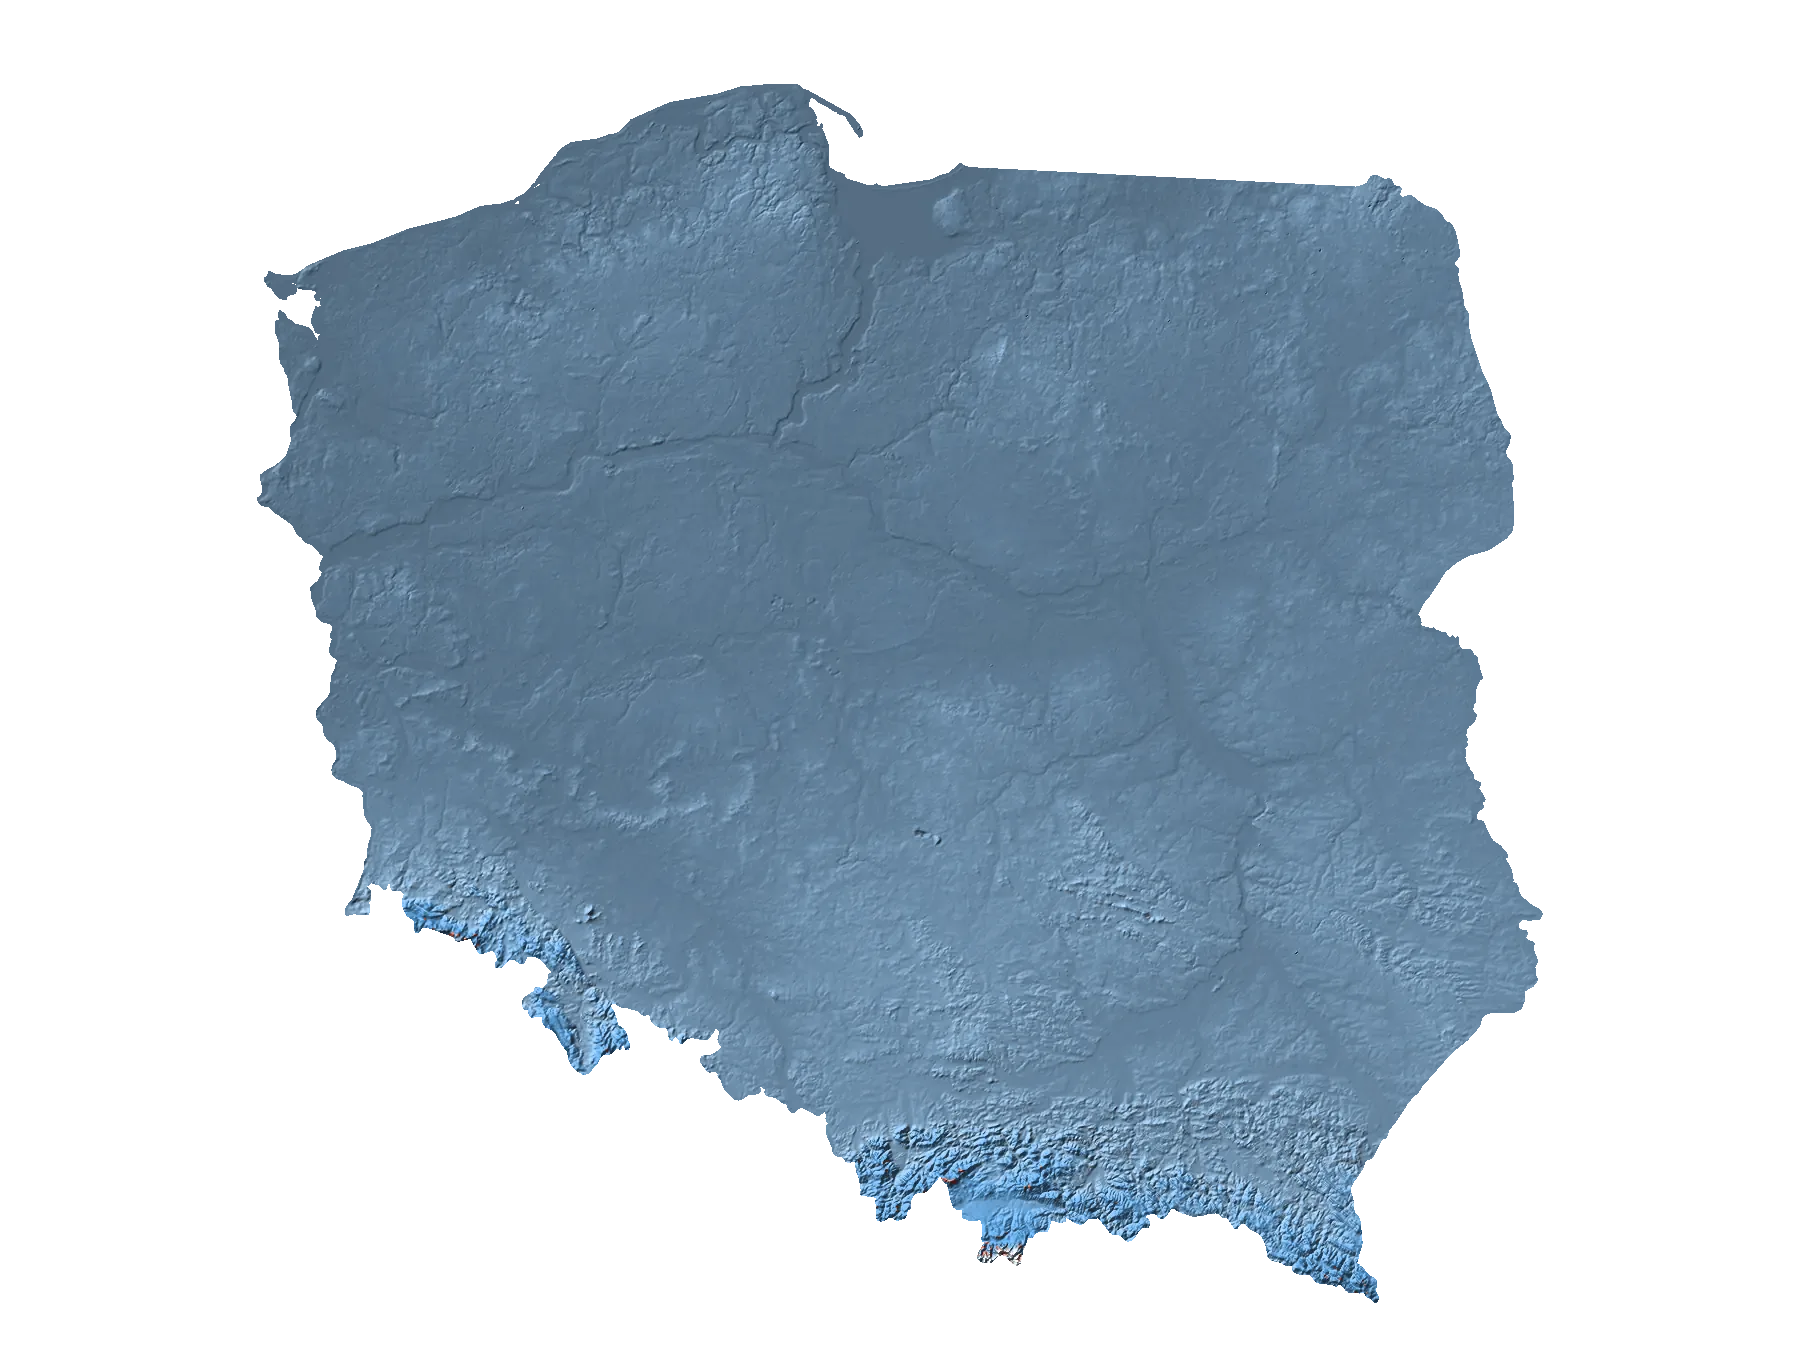
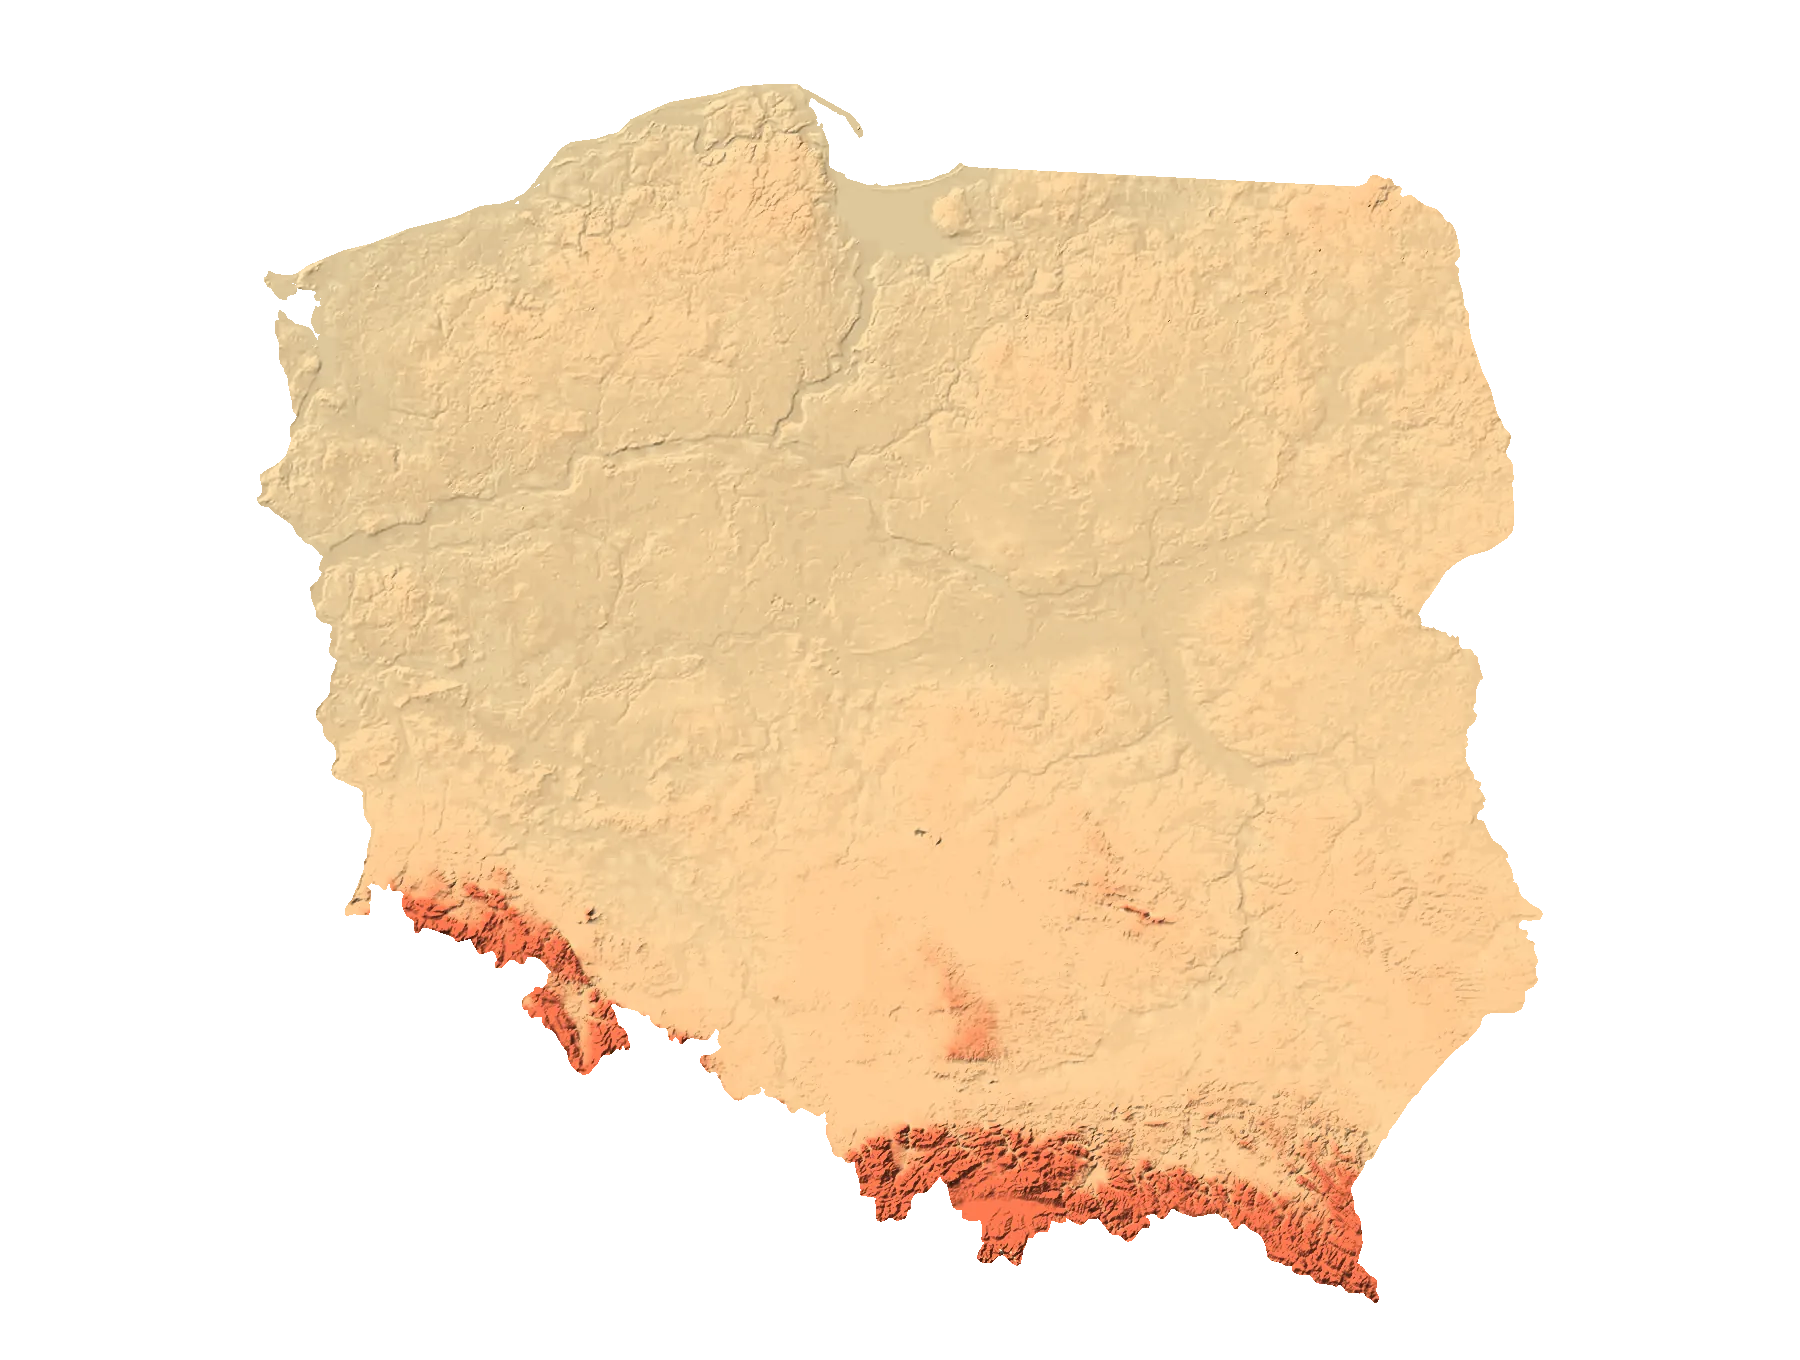
8.10.0: mapa „Pergamin” — ciepła kolorystyka stylu Atlas
Kremowy ląd, turkusowe morze, terakotowe góry (przekolorowany relief),
zielone lasy, pomarańczowe pinezki; tylko styl Atlas. Cache
i-was-here-v8-10-0-20261113, dokumentacja zaktualizowana.

Claude-Session: https://claude.ai/code/session_01XxfU28Mk8B4bFR63vaWz8v

diff --git a/service-worker.js b/service-worker.js
@@ -1,5 +1,5 @@
 /* I Was Here — PWA cache. Network-first; offline: cached copy (HTML without query string). */
-const KEY='i-was-here-v8-9-1-20261113';
+const KEY='i-was-here-v8-10-0-20261113';
 const CORE=['./data/wroclaw-krasnale.json','./','./index.html','./atlas.html','./icon.svg','./icon-180.png','./icon-512.png','./manifest.webmanifest','./assets/atlas.css','./assets/theme-marbles.css','./assets/atlas.js','./assets/atlas-light-v5.css','./assets/atlas-illustrated.js','./assets/poland-geography.js','./assets/brand-mark.svg','./assets/brand-pin-landscape.svg','./assets/app-nav.js','./assets/app-nav.css','./assets/brand-v5.js','./assets/brand-v5.css','./assets/nav4.css','./assets/i18n4.js','./assets/poland-mark.svg','./data/atrakcje.js','./data/atrakcje.json','./data/restauracje.js','./data/restauracje.json','./assets/upgrade3.css','./assets/features3.js','./assets/trips-ics.js','./region.html','./assets/region.js','./assets/region.css','./data/regiony-lite.js','./assets/region-loader.js','./data/regiony/dolnoslaskie.json','./data/regiony/kujawsko-pomorskie.json','./data/regiony/lodzkie.json','./data/regiony/lubelskie.json','./data/regiony/lubuskie.json','./data/regiony/malopolskie.json','./data/regiony/mazowieckie.json','./data/regiony/opolskie.json','./data/regiony/podkarpackie.json','./data/regiony/podlaskie.json','./data/regiony/pomorskie.json','./data/regiony/slaskie.json','./data/regiony/swietokrzyskie.json','./data/regiony/warminsko-mazurskie.json','./data/regiony/wielkopolskie.json','./data/regiony/zachodniopomorskie.json','./assets/vendor/leaflet/leaflet.js','./assets/vendor/leaflet/leaflet.css','./assets/vendor/leaflet/images/layers.png','./assets/vendor/leaflet/images/layers-2x.png','./assets/vendor/leaflet/images/marker-icon.png','./assets/vendor/leaflet/images/marker-icon-2x.png','./assets/vendor/leaflet/images/marker-shadow.png','./assets/atlas-premium.css','./assets/atlas-plans.js','./assets/poland-relief.webp','./assets/place-extras.js','./assets/user-data.js','./assets/place-extras.css','./assets/explore-themes.js','./assets/explore-themes.css','./data/szlaki.json','./data/index/places.json','./data/warszawa-historia/index.json','./data/warszawa-historia/mokotow-ochota.json','./data/warszawa-historia/praga.json','./data/warszawa-historia/prawy-brzeg-poludnie-zachod.json','./data/warszawa-historia/srodmiescie.json','./data/warszawa-historia/wilanow.json','./data/warszawa-historia/wola.json','./data/warszawa-historia/zoliborz-bielany-bemowo.json','./data/historia/dolnoslaskie.json','./data/historia/kujawsko-pomorskie.json','./data/historia/lodzkie.json','./data/historia/lubelskie.json','./data/historia/lubuskie.json','./data/historia/malopolskie.json','./data/historia/mazowieckie.json','./data/historia/opolskie.json','./data/historia/podkarpackie.json','./data/historia/podlaskie.json','./data/historia/pomorskie.json','./data/historia/slaskie.json','./data/historia/swietokrzyskie.json','./data/historia/warminsko-mazurskie.json','./data/historia/wielkopolskie.json','./data/historia/zachodniopomorskie.json'];
 self.addEventListener('install',e=>{e.waitUntil(caches.open(KEY).then(c=>c.addAll(CORE)));self.skipWaiting()});
 self.addEventListener('activate',e=>{e.waitUntil(caches.keys().then(keys=>Promise.all(keys.filter(x=>x!==KEY).map(x=>caches.delete(x)))));self.clients.claim()});

diff --git a/assets/theme-marbles.css b/assets/theme-marbles.css
@@ -29,3 +29,31 @@
 @media(prefers-reduced-motion:no-preference){
   .tabbar button.active,.app-nav:not(.tabbar) button.active{transition:box-shadow .2s ease}
 }
+
+/* ===== 8.10.0 — mapa „Pergamin”: ciepła, przyjazna kolorystyka stylu Atlas =====
+   Dotyczy tylko stylu domyślnego (Atlas); Jasny, Noc i Teren zachowują własne kolory.
+   Kremowy ląd, turkusowe morze, terakotowe góry (relief w assets/poland-relief.webp), pomarańczowe pinezki. */
+body:not([data-style=light]):not([data-style=night]):not([data-style=terrain]){
+  --olive:#fdefc3;--water:#4aa0b5;
+  --pin:#e5541b;--pin-edge:#fff4e0;--pin-dot:#fff4e0;
+}
+body:not([data-style=light]):not([data-style=night]):not([data-style=terrain]) #atlasApp{background:radial-gradient(ellipse at 52% 18%,#6dbac4 0%,#5eaeb9 55%,#4f9fb0 100%)}
+body:not([data-style=light]):not([data-style=night]):not([data-style=terrain]) .neighbour{fill:#f6ead0;stroke:#e0cc9f}
+body:not([data-style=light]):not([data-style=night]):not([data-style=terrain]) .relief{opacity:.95}
+body:not([data-style=light]):not([data-style=night]):not([data-style=terrain]) .country-shadow{opacity:.18}
+body:not([data-style=light]):not([data-style=night]):not([data-style=terrain]) .country-border{stroke:#e5571c;opacity:1;stroke-width:1.6px;filter:none}
+body:not([data-style=light]):not([data-style=night]):not([data-style=terrain]) .prov-line{stroke:#b4803f;opacity:.75}
+body:not([data-style=light]):not([data-style=night]):not([data-style=terrain]) .prov-halo{stroke:#ffffff;opacity:.35}
+body:not([data-style=light]):not([data-style=night]):not([data-style=terrain]) .atlas-geo-river{stroke:#4aa0b5}
+body:not([data-style=light]):not([data-style=night]):not([data-style=terrain]) .atlas-geo-lake{fill:#4aa0b5;stroke:#4aa0b5}
+/* napisy skali, kompas i źródło na jasnym lądzie: granat */
+body:not([data-style=light]):not([data-style=night]):not([data-style=terrain]) .compass,
+body:not([data-style=light]):not([data-style=night]):not([data-style=terrain]) .scale-text,
+body:not([data-style=light]):not([data-style=night]):not([data-style=terrain]) .attribution{color:#12306a;fill:#12306a;text-shadow:none}
+body:not([data-style=light]):not([data-style=night]):not([data-style=terrain]) .scale{color:#12306a;border-color:#12306a}
+/* lasy: zieleń zamiast niebiesko-szarego */
+body:not([data-style=light]):not([data-style=night]):not([data-style=terrain]) .atlas-forest [fill="#45536a"]{fill:#5b4630}
+body:not([data-style=light]):not([data-style=night]):not([data-style=terrain]) .atlas-forest [fill="#365d80"]{fill:#3f6b3a}
+body:not([data-style=light]):not([data-style=night]):not([data-style=terrain]) .atlas-forest [fill="#53738f"]{fill:#55823f}
+body:not([data-style=light]):not([data-style=night]):not([data-style=terrain]) .atlas-forest [fill="#6786a2"]{fill:#6f9a4d}
+body:not([data-style=light]):not([data-style=night]):not([data-style=terrain]) .atlas-forest [stroke="#a0b9cf"]{stroke:#b6d08c}

diff --git a/assets/atlas-premium.css b/assets/atlas-premium.css
@@ -64,8 +64,8 @@ body:not([data-style=light]) .region-outline{stroke:var(--amber-2);fill:rgba(255
 
 /* ---------- pinezki miast: stały rozmiar na ekranie, status odwiedzin */
 .city-dot{cursor:pointer;outline:none}
-.city-dot .pin{fill:var(--amber);stroke:var(--cream);stroke-width:1.6;filter:drop-shadow(0 3px 3px rgba(0,0,0,.35))}
-.city-dot .pin-dot{fill:var(--cream)}
+.city-dot .pin{fill:var(--pin,var(--amber));stroke:var(--pin-edge,var(--cream));stroke-width:1.6;filter:drop-shadow(0 3px 3px rgba(0,0,0,.35))}
+.city-dot .pin-dot{fill:var(--pin-dot,var(--cream))}
 .city-dot .pin-shadow{fill:rgba(0,0,0,.35)}
 .city-dot .pin-mark{font:900 8px/1 system-ui,-apple-system,sans-serif;fill:#17253b;pointer-events:none}
 .city-dot.st-visited .pin{fill:#3fa396}

diff --git a/assets/user-data.js b/assets/user-data.js
@@ -8,7 +8,7 @@
  * Bez zewnętrznych bibliotek: własny zapis/odczyt ZIP (deflate przez DecompressionStream) i XML arkusza. */
 (function(){
 'use strict';
-const FORMAT='iwh-backup',FORMAT_VERSION=1,APP_VERSION='8.9.1';
+const FORMAT='iwh-backup',FORMAT_VERSION=1,APP_VERSION='8.10.0';
 const read=(k,f)=>{try{const v=JSON.parse(localStorage.getItem(k)||'null');return v==null?f:v}catch(e){return f}};
 const write=(k,v)=>{try{localStorage.setItem(k,JSON.stringify(v));return true}catch(e){return false}};
 const esc=s=>String(s??'').replace(/[&<>"']/g,c=>({'&':'&amp;','<':'&lt;','>':'&gt;','"':'&quot;',"'":'&#39;'}[c]));

diff --git a/CLAUDE.md b/CLAUDE.md
@@ -1,6 +1,6 @@
 # CLAUDE.md — I Was Here / Places & Memories
 
-Aktualizacja 2026-11-13: wersja 8.9.1 — motyw „kulki na torze” (niebieski, błękitny akcent `#28A6F4`, żółty) na wszystkich ekranach, cache `i-was-here-v8-9-1-20261113`; paleta poniżej w sekcji *Binding UI decisions* jest już nowa.
+Aktualizacja 2026-11-13: wersja 8.10.0 — motyw „kulki na torze” (niebieski, błękitny akcent `#28A6F4`, żółty) z ciepłą mapą „Pergamin” w stylu Atlas, cache `i-was-here-v8-10-0-20261113`; paleta poniżej w sekcji *Binding UI decisions* jest już nowa.
 
 Aktualizacja gałęzi 2026-11-09: 8.8.0, kolekcja 769 krasnali OSM (`data/wroclaw-krasnale.json`, importer `tools/import_wroclaw_dwarfs.py`), 982 punkty regionalne łącznie; historie ≥10 zdań nadal dotyczą 213 atrakcji redakcyjnych. Nowy test: `CHROMIUM_PATH=/usr/bin/chromium node tools/test_dwarfs.js` (zmienna opcjonalna). Cache `i-was-here-v8-8-0-20261109`. Poniższy opis 8.7 to punkt wyjścia; bieżący zakres w PROJECT_STATUS.md.
 
@@ -61,6 +61,7 @@ IndexedDB: `iwh_journal` (keys `reg:<placeId>`, `waw:<attractionId>`, `atlas:<it
 - **Logo:** landscape pin **left of** the wordmark „PLACES & MEMORIES / I WAS HERE”, top-left; the logo is not a link.
 - **Poland map button:** the green tile **in the same row as the logo**, the middle item of the header between the logo and the buttons (`#atlasFloat.poland-fab`, 48 px; 44 px in the Atlas). The header is always visible, so the button is too. It always leads to the whole map of Poland; in the Atlas it calls `home()` without a reload. On screens ≤370 px the wordmark hides and only the pin stays. No white halo.
 - **Palette (8.9.0, „marbles on a track” theme):** navy `#0C2C59`, light-blue accent `#28A6F4` (dark text `#061938` on it), yellow `#FFD84A`, blue land, pale-blue backgrounds `#E2ECF8`, teal `#3FA396` for success; `assets/theme-marbles.css` loads last. Serif italic brand wordmark. (Older 7.0 palette navy/amber/olive/cream is in `DECYZJE_PROJEKTOWE.md`.)
+- **Atlas map (8.10.0, style Atlas only):** „Pergamin” — cream land, turquoise sea `#5EAEB9`, terracotta mountains (recoloured `poland-relief.webp`), green forests, orange pins `#E5541B`; styles Light/Night/Terrain keep their own colours.
 - **City motifs:** postage stamps (owner's choice, style 5), with a „✓” postmark when the city is visited.
 - **One bottom menu**, identical everywhere. **No duplicate controls on one screen:** the language switch lives in the header, the map style in the Layers panel, and there is no corner „Polska” button.
 - **Pieczątki / Stamps:** the former „Paszport”. Clickable counters, „Byłem tu” toggles that can be undone, journal with up to 5 photos. In attraction details the main action is **„✣ Zdobądź pieczątkę”**; „📝 Notatki i zdjęcia” appears only after the stamp is collected (also as 📝 next to collected stamps).

diff --git a/PROJECT_STATUS.md b/PROJECT_STATUS.md
@@ -1,5 +1,10 @@
 # PROJECT_STATUS — I Was Here / Places & Memories
 
+## 8.10.0 — Mapa „Pergamin” (2026-11-13, PR czeka na „Scal”)
+- Styl Atlas ma ciepłą mapę (krem, turkus, terakota, zielone lasy, pomarańczowe pinezki); szczegóły w CHANGELOG.md, decyzja w DECYZJE_PROJEKTOWE.md §3. Relief `poland-relief.webp` przekolorowany (przy ponownym generowaniu `build_geography.py` trzeba go przekolorować tak samo: niziny hue 43° s .26 v .99, góry hue 14° s .68 v .88).
+- Znany stary błąd: styl Noc ma nieczytelne napisy miast i ciemne „I WAS HERE” (poprawka czeka na decyzję właściciela).
+- Do sprawdzenia przez właściciela: wygląd na prawdziwym iPhonie; styl Noc/Teren z jasnym reliefem.
+
 ## 8.9.1 — Główny akcent błękitny (2026-11-13)
 - Różowy akcent z 8.9.0 zastąpiony błękitnym `#28A6F4` w całej aplikacji (CHANGELOG.md, DECYZJE_PROJEKTOWE.md §3). Ciemny tekst na błękitnych przyciskach dla kontrastu.
 - Do sprawdzenia przez właściciela: wygląd na prawdziwym iPhonie; ciemny/leśny motyw Warszawy; PNG ikon (przerenderuje `sync-icons.yml`).
@@ -27,8 +32,8 @@
 - Testy: synchronizacja bazy, test_bundle.py, test_atlas.py, kontrola składni i pełny test_browser.js przeszły w Chromium (emulacja iPhone 13). Sprawdzono kliknięcie logo z zakładki Pieczątek oraz mapkę po lewej w Warszawie.
 - Cache: `i-was-here-v8-7-1-20261109`. Poprawka oparta na main 8.7.0; niezależna od oczekującego PR #23 z krasnalami. Nie testowano na fizycznym iPhonie.
 
-**Stan na:** 2026-11-13 · **Wersja:** 8.9.1 (motyw „kulki na torze”, błękitny akcent)
-**Cache PWA:** `i-was-here-v8-9-1-20261113` · **Publikacja:** https://auriol-kno.github.io/Zwiedzanie-trip/atlas.html (wdrożenia #17–#22 sprawdzane w GitHub Actions)
+**Stan na:** 2026-11-13 · **Wersja:** 8.10.0 (mapa „Pergamin”, motyw „kulki na torze”)
+**Cache PWA:** `i-was-here-v8-10-0-20261113` · **Publikacja:** https://auriol-kno.github.io/Zwiedzanie-trip/atlas.html (wdrożenia #17–#22 sprawdzane w GitHub Actions)
 **Autor aplikacji:** podpis „Made by Tomasz Kmiecik” (Profil Atlasu, stopki, `meta author`) — nie usuwać.
 
 > Ten plik opisuje **bieżący** stan projektu. Aktualizuj go w każdym PR, który zmienia funkcje, dane, znane błędy albo następne zadanie.

diff --git a/CHANGELOG.md b/CHANGELOG.md
@@ -1,5 +1,14 @@
 # CHANGELOG — I Was Here / Places & Memories
 
+## 8.10.0 — Mapa „Pergamin”: ciepła, przyjazna kolorystyka Atlasu (2026-11-13, PR do scalenia po „Scal”)
+
+- Na polecenie właściciela (wzór: załączona grafika mapy, „troszeczkę cieplejsza”) styl **Atlas** ma nową kolorystykę mapy: kremowy ląd, turkusowe morze `#5EAEB9`, terakotowe góry, zielone lasy, pomarańczowe pinezki `#E5541B` i granica `#E5571C`, papierowe kraje sąsiednie `#F6EAD0`, ciepłe rzeki i jeziora `#4AA0B5`. Wybrany spośród pięciu wariantów (A „Pergamin”; B–E: Leśna, Miętowa, Lawenda, Lodowy błękit).
+- `assets/poland-relief.webp` przekolorowany z oryginalnego reliefu (nizina → krem, góry → terakota; geometria i cieniowanie bez zmian). Relief jest wspólny, więc widać go też w stylach Jasny, Noc i Teren; ich własne kolory zostają.
+- `assets/theme-marbles.css`: reguły ograniczone do stylu Atlas (`body:not([data-style=light]):not([data-style=night]):not([data-style=terrain])`): tło morza (`#atlasApp`), sąsiedzi, granice, rzeki, ciemne napisy skali/kompasu/źródła na jasnym lądzie, zielone drzewa (`.atlas-forest`). `assets/atlas-premium.css`: pinezki miast czytają `--pin`, `--pin-edge`, `--pin-dot` (domyślnie jak dotąd `--amber`/`--cream`), stany odwiedzone/zaplanowane/wybrane bez zmian.
+- UI (menu, przyciski, błękitny akcent `#28A6F4`) bez zmian.
+- Cache: `i-was-here-v8-10-0-20261113`; `APP_VERSION` kopii JSON 8.10.0. Testy: sync_database (bez diffu), test_bundle, test_atlas, `node --check`, test_browser.js, test_dwarfs.js przeszły w Chromium (iPhone 13). Nie testowano na fizycznym iPhonie.
+- Znany, wcześniejszy błąd (nie dotyczy tej zmiany, jest też w wersji sprzed 8.9.0): w stylu **Noc** napisy miast to czarne plamy (obrys 5 px przykrywa tekst), a napis „I WAS HERE” jest ciemny na ciemnym tle.
+
 ## 8.9.1 — Główny akcent błękitny (2026-11-13, PR do scalenia po „Scal”)
 
 - Na polecenie właściciela główny kolor akcentu zmienia się z różowego `#F4288B` na błękitny `#28A6F4` (gradient `#45B8FF` → `#1A90D9`): aktywne przyciski menu, przełącznik języka, pinezki mapy, ramki i cienie, `--accent` Warszawy, `--amber` Atlasu, logo i ikona (`icon.svg`, `tools/build_logo.py`).

diff --git a/DECYZJE_PROJEKTOWE.md b/DECYZJE_PROJEKTOWE.md
@@ -38,6 +38,7 @@ Jeśli nowe polecenie przeczy temu plikowi, wygrywa nowsze polecenie właścicie
   - niebieski ląd (relief przekolorowany), jasnoniebieskie tła zamiast kremu `#E2ECF8`;
   - morski `#3FA396` dla stanów „zdobyte/sukces”;
   - aktywne przyciski to błękitne kulki z połyskiem, nad dolnym menu błękitno-żółta szyna (`assets/theme-marbles.css`).
+- **Mapa Atlasu (od 8.10.0, decyzja właściciela 2026-11-13): „Pergamin”**: kremowy ląd, turkusowe morze `#5EAEB9`, terakotowe góry, zielone lasy, pomarańczowe pinezki `#E5541B`; tylko styl Atlas, style Jasny/Noc/Teren zachowują własne kolory. Pozostałe warianty do ewentualnego powrotu: B Leśna, C Miętowa, D Lawenda, E Lodowy błękit (plansza w Design, parametry reliefu: odcień/nasycenie/jasność nizin i gór).
 - Jasne przewodniki (Warszawa, regiony) stoją na jasnoniebieskim tle z granatowymi kartami „hero”.
 - Logo i znaczek mapy: kształty bez zmian, barwy przeliczone na niebieskie (`tools/build_logo.py`). Złota ramka `#F1D88E` → `#9E7A2E` zostaje.
 - Dawna paleta (do porównania): granat `#0B3446`, bursztyn `#F47C28`/`#FFB24A`, oliwka `#68824B`/`#9EAF65`, krem `#F6F1E4`.
